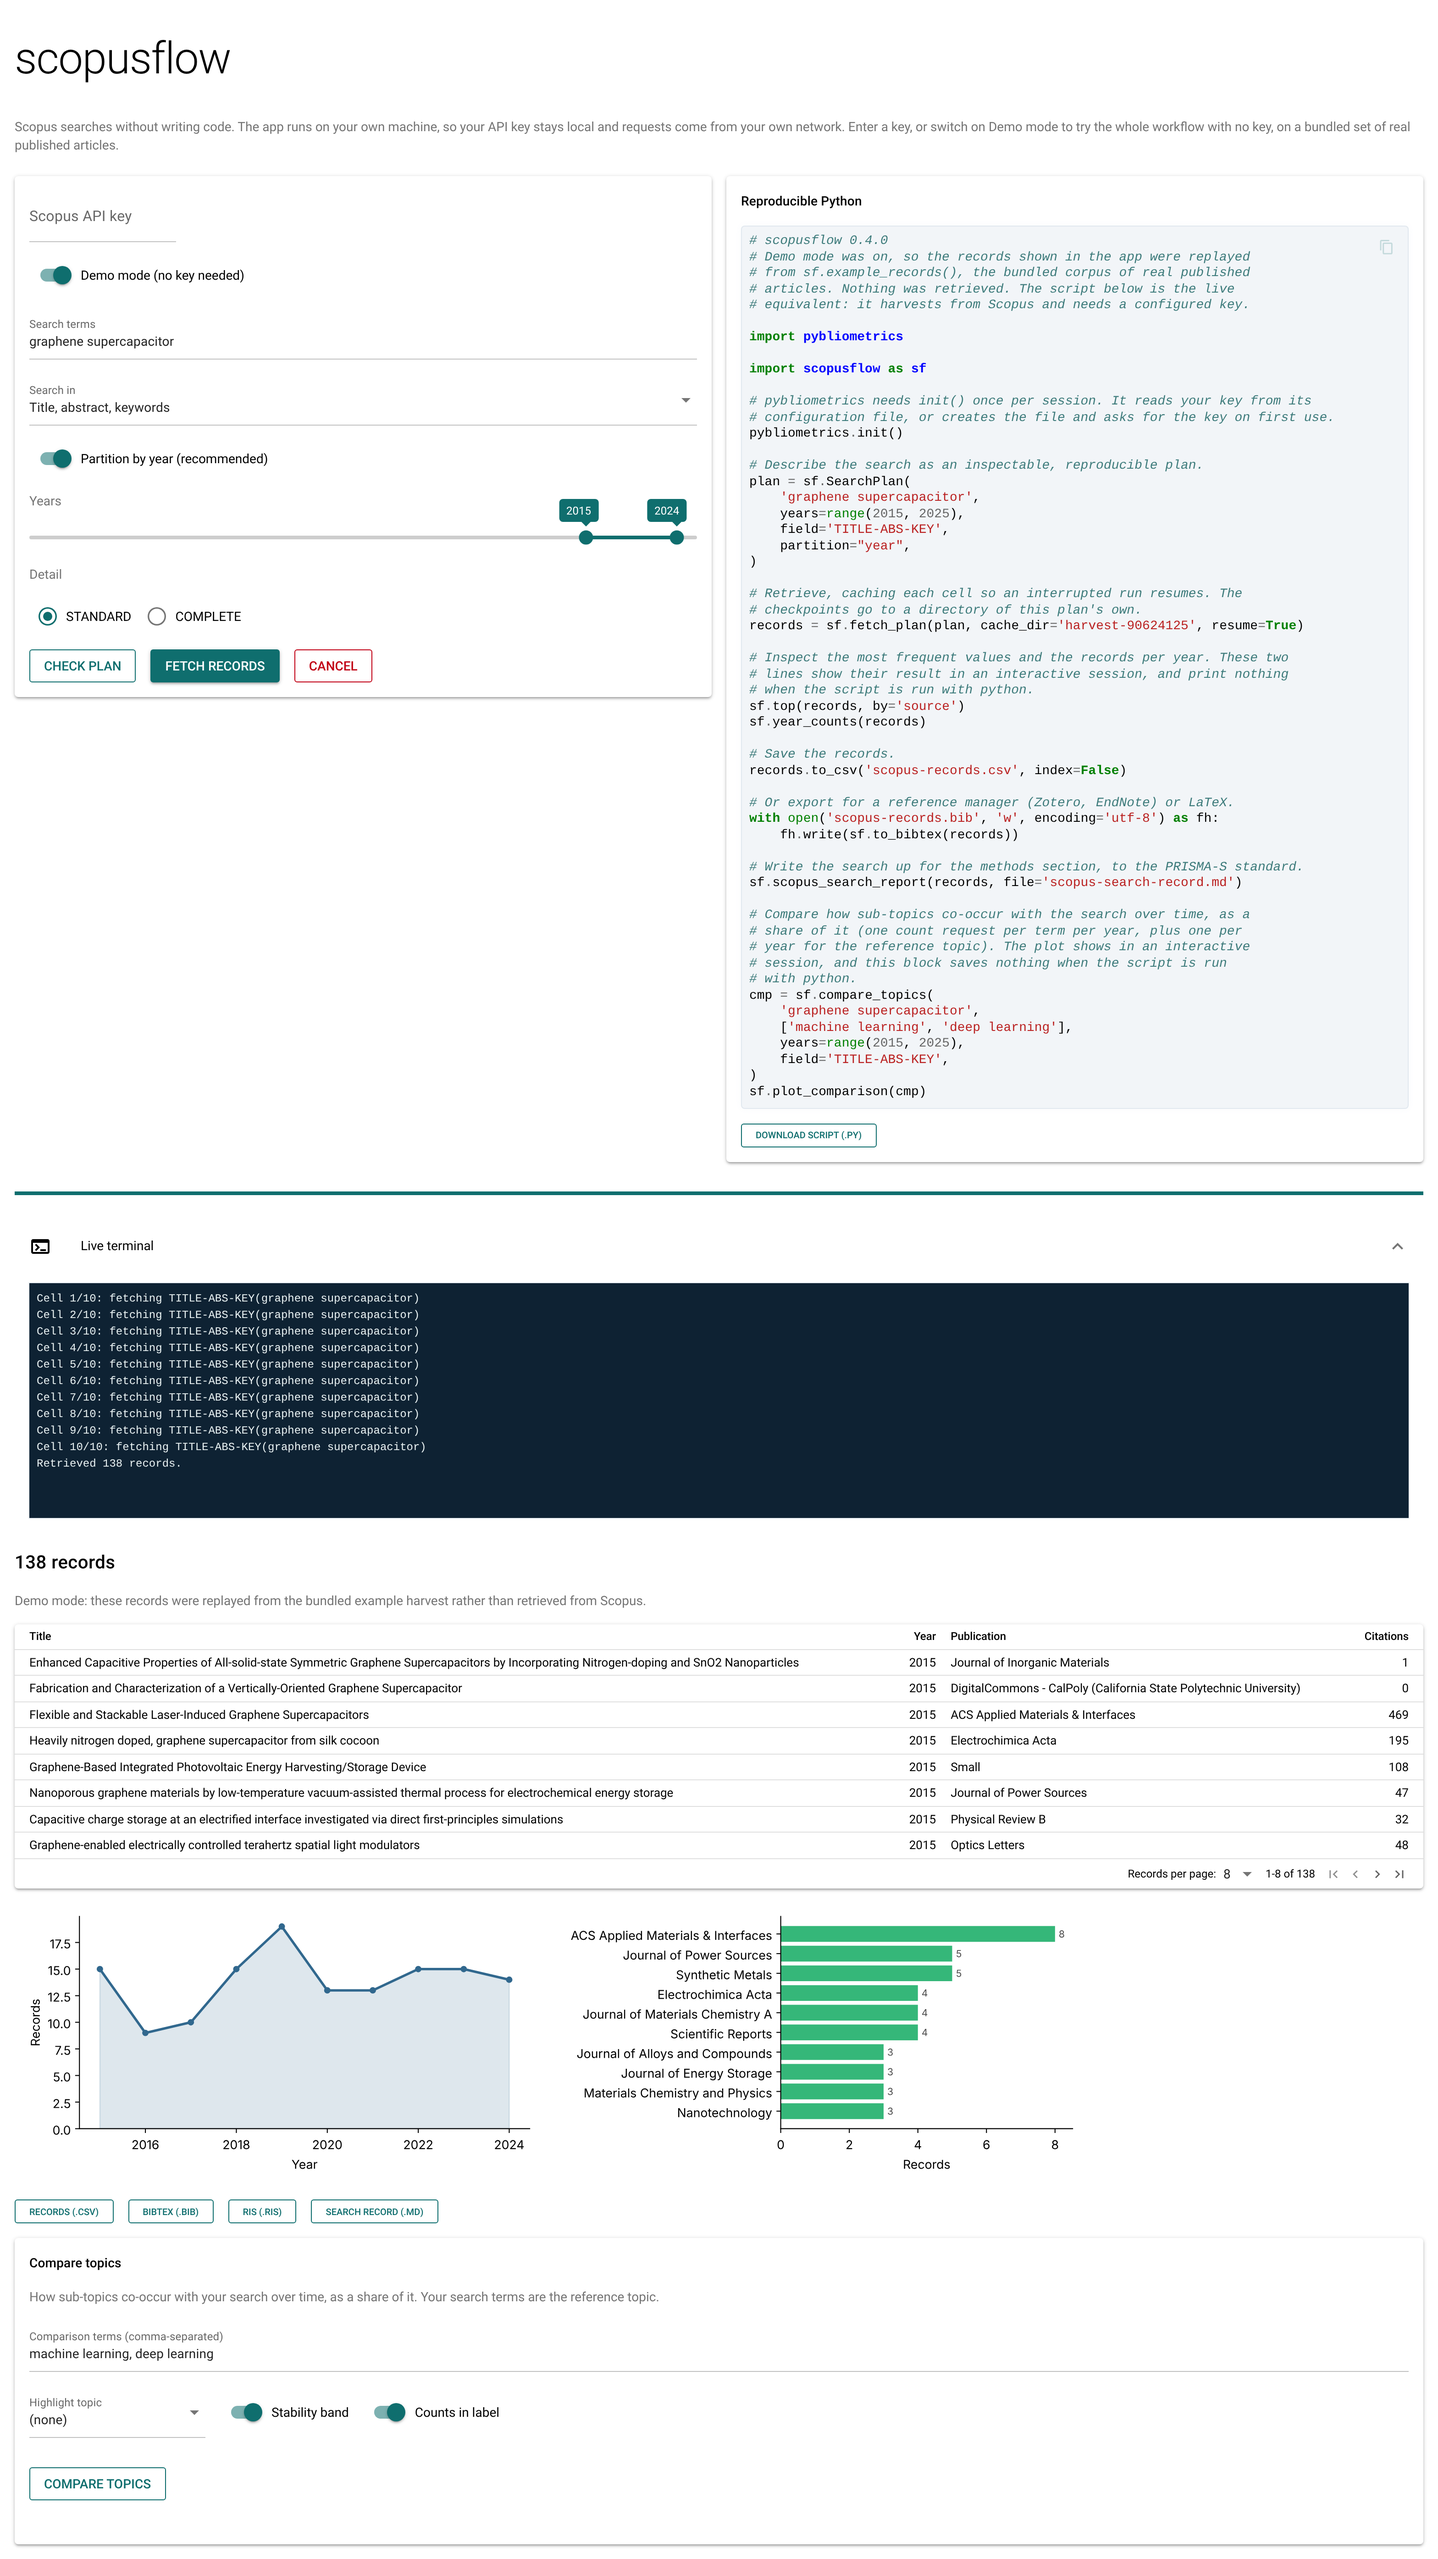
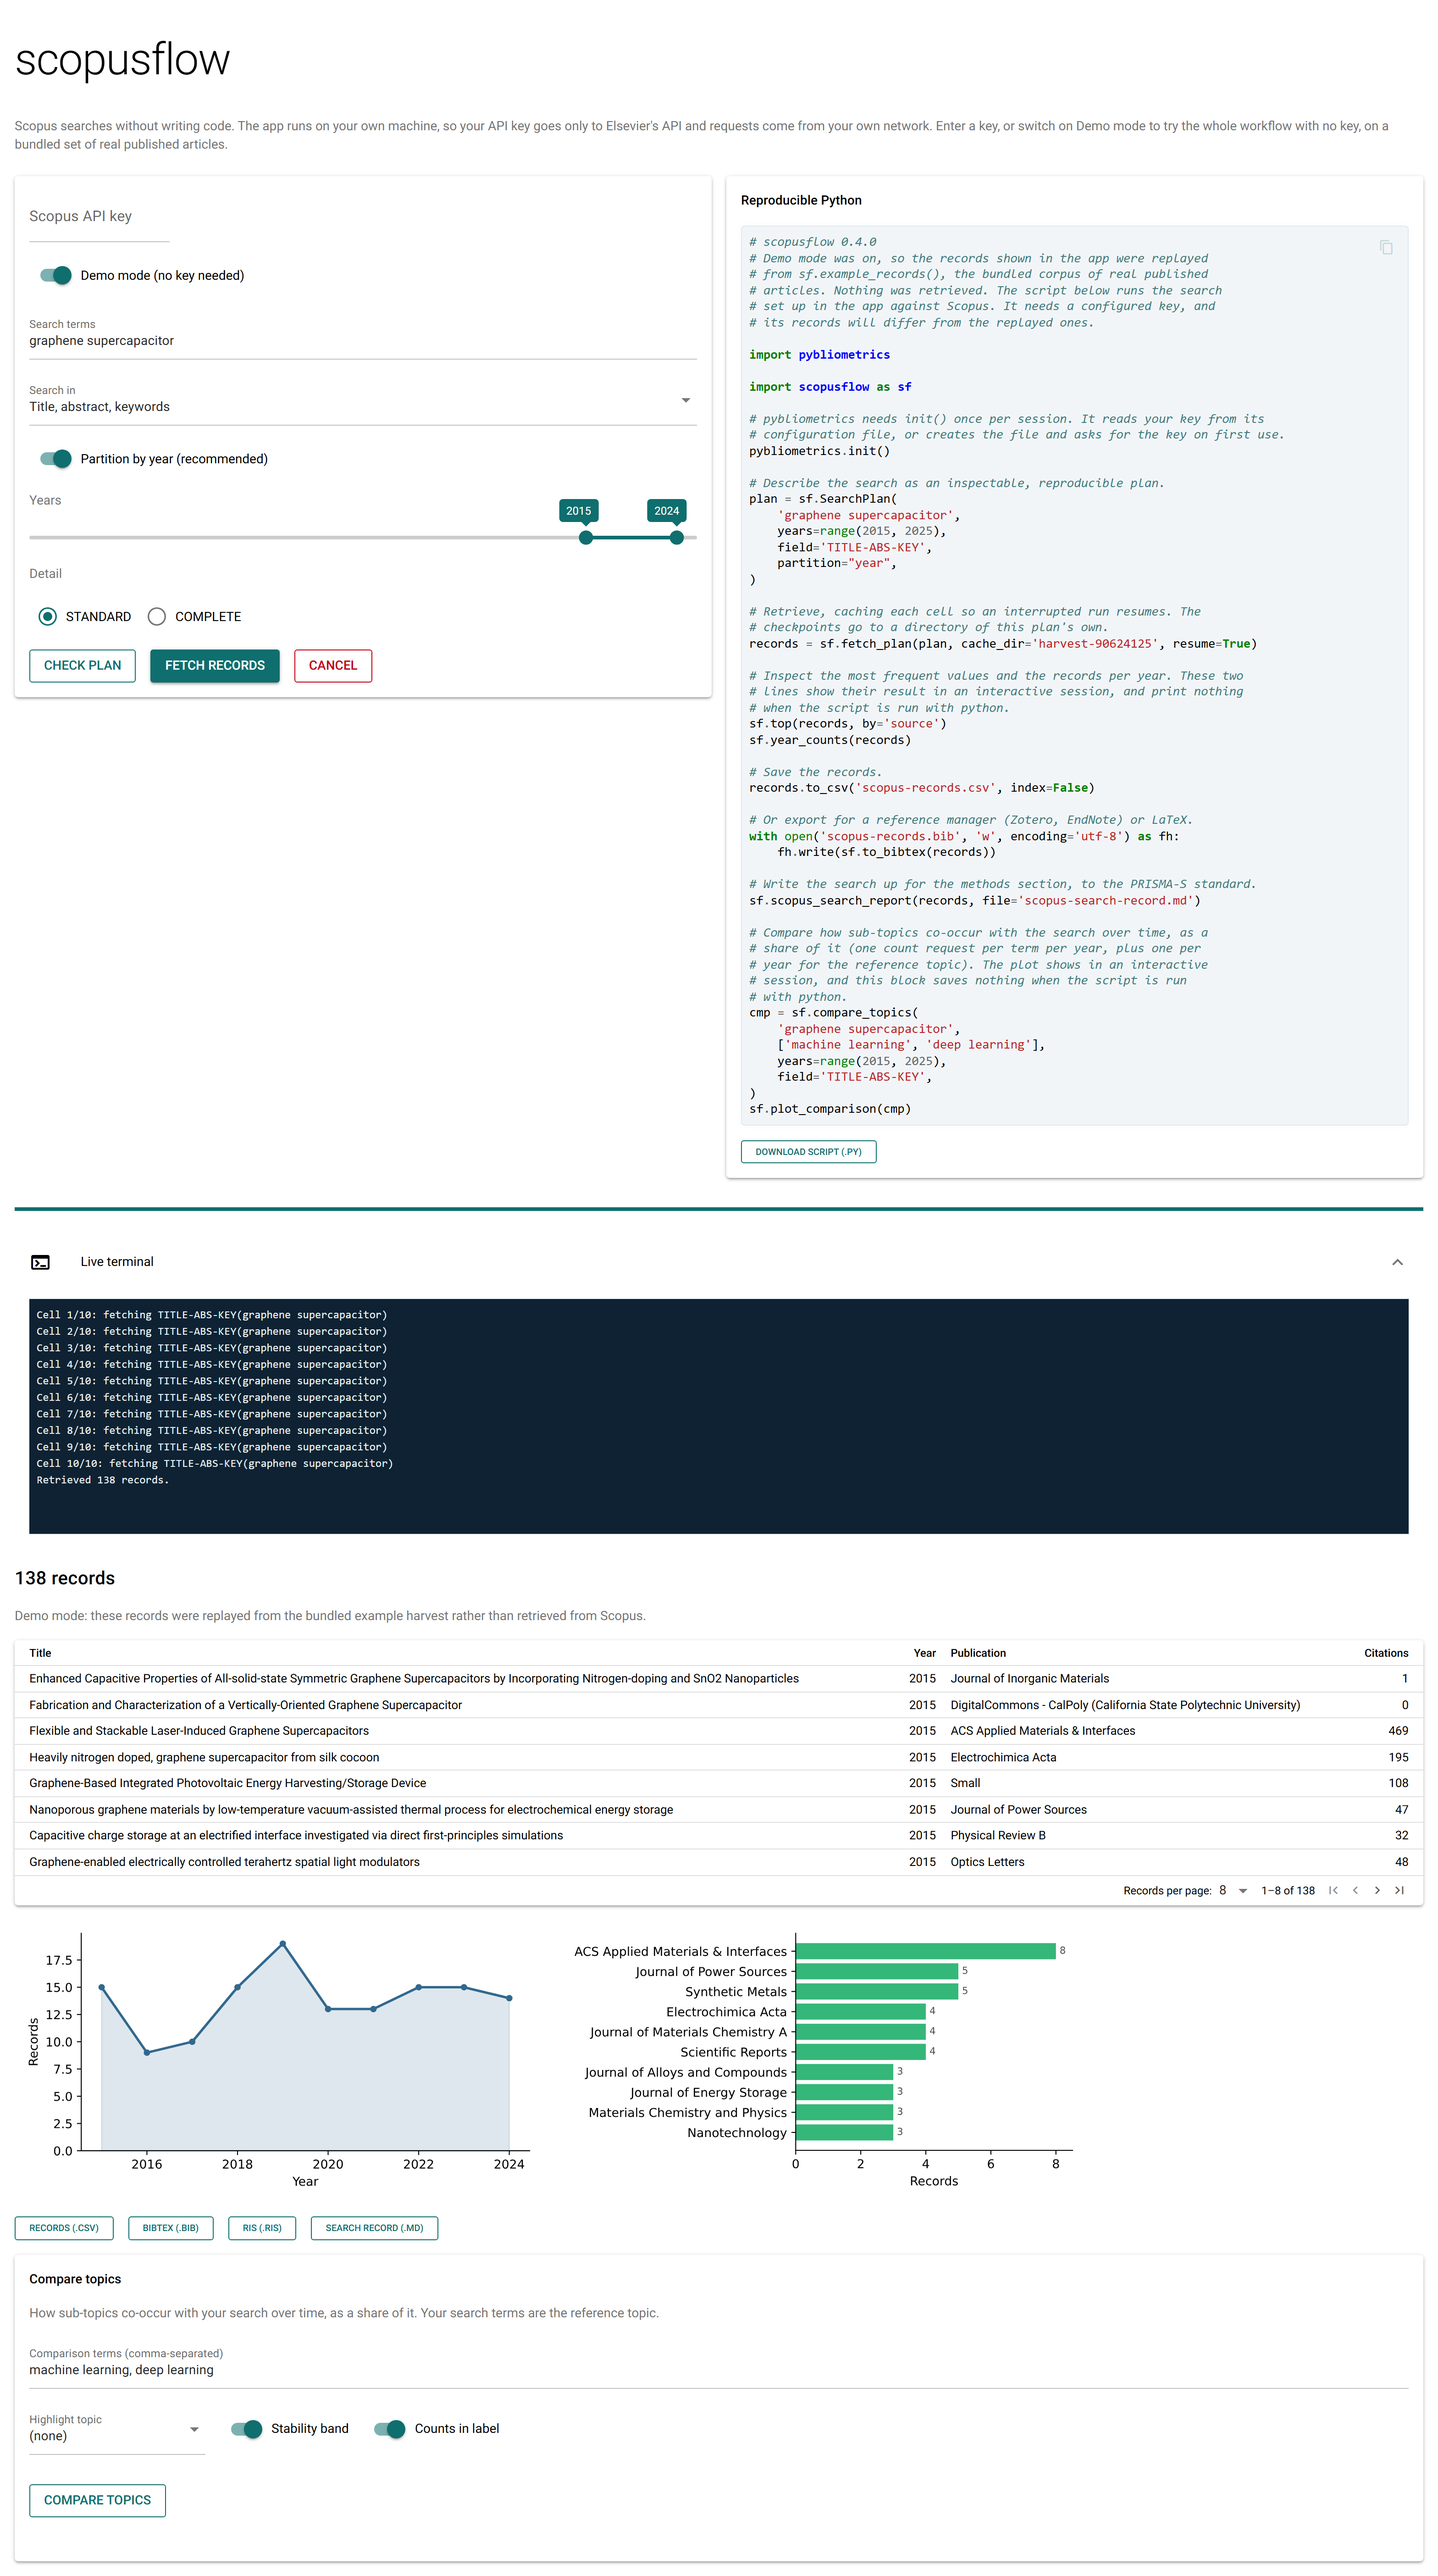
Correct the app's demo note and key statement, and the report example
In demo mode, the script the app writes called itself the live equivalent of
the replayed records. Those came from OpenAlex's exact-phrase search, while the
app's default search is unquoted, and any search typed in the app differs from
them in any case. The note now says that the script runs the search set up in
the app against Scopus and that its records will differ, as the R twin's does.

The app's opening text said that the API key stays local. It goes to
Elsevier's API, as the README and the app guide say since 0.4.0.

docs/assets/app-window.png is retaken from the app as it now stands, in demo
mode after fetching, so that it shows both texts.

The example of scopus_search_report() and the plans and quota guide set the
version attribute to 0.3.0 by hand. They now record the installed version.

diff --git a/src/scopusflow/app_helpers.py b/src/scopusflow/app_helpers.py
@@ -127,7 +127,7 @@ def app_code_mirror(query, years=None, field=None, view="STANDARD",
     The script opens with the scopusflow version that wrote it, so a downloaded
     file records which release its behaviour belongs to. With ``demo`` true, it
     also says that the records on screen were replayed from the bundled corpus
-    and that what follows is the live equivalent, as the demo comparison
+    and that what follows runs the search against Scopus, as the demo comparison
     figure carries a note of its own. Without that header, a demo session's
     panel, labelled 'Reproducible Python', would offer a script that reproduces
     something the user did not run."""
@@ -155,8 +155,9 @@ def app_code_mirror(query, years=None, field=None, view="STANDARD",
         lines += [
             "# Demo mode was on, so the records shown in the app were replayed",
             "# from sf.example_records(), the bundled corpus of real published",
-            "# articles. Nothing was retrieved. The script below is the live",
-            "# equivalent: it harvests from Scopus and needs a configured key.",
+            "# articles. Nothing was retrieved. The script below runs the search",
+            "# set up in the app against Scopus. It needs a configured key, and",
+            "# its records will differ from the replayed ones.",
         ]
     lines += [
         "",

diff --git a/src/scopusflow/app.py b/src/scopusflow/app.py
@@ -418,9 +418,10 @@ def launch(host: str = "127.0.0.1", port: int = 8080, show: bool = True,
         ui.markdown("# scopusflow")
         ui.markdown(
             "Scopus searches without writing code. The app runs on your own "
-            "machine, so your API key stays local and requests come from your own "
-            "network. Enter a key, or switch on Demo mode to try the whole "
-            "workflow with no key, on a bundled set of real published articles."
+            "machine, so your API key goes only to Elsevier's API and requests "
+            "come from your own network. Enter a key, or switch on Demo mode to "
+            "try the whole workflow with no key, on a bundled set of real "
+            "published articles."
         ).classes("text-sm text-grey-7")
 
         with ui.row().classes("w-full no-wrap"):

diff --git a/src/scopusflow/report.py b/src/scopusflow/report.py
@@ -290,7 +290,7 @@ def scopus_search_report(x, plan: SearchPlan | None = None, file=None) -> Search
     >>> records.attrs["plan"] = plan
     >>> records.attrs["retrieved_at"] = datetime(2026, 7, 22, 9, 15,
     ...                                          tzinfo=timezone.utc)
-    >>> records.attrs["scopusflow_version"] = "0.3.0"
+    >>> records.attrs["scopusflow_version"] = sf.__version__
     >>> report = sf.scopus_search_report(records)
     >>> report.n_records
     138

diff --git a/tests/test_app.py b/tests/test_app.py
@@ -76,6 +76,7 @@ def test_app_code_mirror_marks_demo_mode_and_records_its_version():
     # Under a panel labelled "Reproducible Python", a demo script that says
     # nothing would reproduce a live harvest the user never ran.
     assert "example_records()" in replayed
+    assert "will differ from the replayed ones" in replayed
     assert "example_records()" not in live
     # Both stay runnable Python, and neither carries a key.
     ast.parse(live)

diff --git a/docs/guides/plans-and-quota.md b/docs/guides/plans-and-quota.md
@@ -144,16 +144,16 @@ out(sf.scopus_search_report(graphene))
 
 Much of the record says 'unrecorded'. Nothing has been retrieved yet, so there is nothing to state, and the record says so in words because a blank would be read as a zero. Throughout, the record states only what the objects hold. It never substitutes the current time for a retrieval that did not record one, never gives a completeness figure for a harvest whose reported total is unknown, and never counts duplicates unless a merge recorded removing them.
 
-After a harvest, the record fills in. `fetch_plan` attaches the plan, the retrieval time, the version, the paging mode and the per-cell accounting, and you never set any of them yourself. Here, the bundled corpus stands in for a harvest, since Scopus records may not be redistributed. Those attributes are therefore written out below to show what each one contributes. Their values are illustrative, so the record they produce describes no search that was run. The retrieval time and the version are set by hand. Each cell's reported total is the number of bundled records in its year, a count from the OpenAlex search that the Scopus API never gave.
+After a harvest, the record fills in. `fetch_plan` attaches the plan, the retrieval time, the version, the paging mode and the per-cell accounting, and you never set any of them yourself. Here, the bundled corpus stands in for a harvest, since Scopus records may not be redistributed. Those attributes are therefore written out below to show what each one contributes. Their values are illustrative, so the record they produce describes no search that was run. The retrieval time is set by hand, and the version is the one installed. Each cell's reported total is the number of bundled records in its year, a count from the OpenAlex search that the Scopus API never gave.
 
 ```python exec="1" source="block" session="plans-and-quota"
 from datetime import datetime, timezone
 
-# Illustrative values, set by hand. No Scopus search was run.
+# Illustrative values. No Scopus search was run.
 records = sf.example_records()
 records.attrs["plan"] = graphene
 records.attrs["retrieved_at"] = datetime(2026, 7, 22, 9, 15, tzinfo=timezone.utc)
-records.attrs["scopusflow_version"] = "0.3.0"
+records.attrs["scopusflow_version"] = sf.__version__
 records.attrs["paging"] = "cursor"
 per_year = records.groupby("year").size()
 records.attrs["cell_totals"] = pd.DataFrame({

diff --git a/CHANGELOG.md b/CHANGELOG.md
@@ -5,6 +5,22 @@ All notable changes to this project are documented here.
 The format is based on [Keep a Changelog](https://keepachangelog.com/en/1.1.0/),
 and this project adheres to [Semantic Versioning](https://semver.org/spec/v2.0.0.html).
 
+## [Unreleased]
+
+### Changed
+
+- In demo mode, the script the app writes says that it runs the search set up
+  in the app against Scopus and that its records will differ from the replayed
+  ones, where it called itself the live equivalent of records that came from
+  another search.
+
+### Documentation
+
+- The app's opening text says that the API key goes only to Elsevier's API,
+  where it said that the key stays local.
+- The example of `scopus_search_report()` and the plans and quota guide record
+  the installed version of scopusflow, where they recorded 0.3.0.
+
 ## [0.4.0] - 2026-11-22
 
 ### Upgrading from 0.3.0
